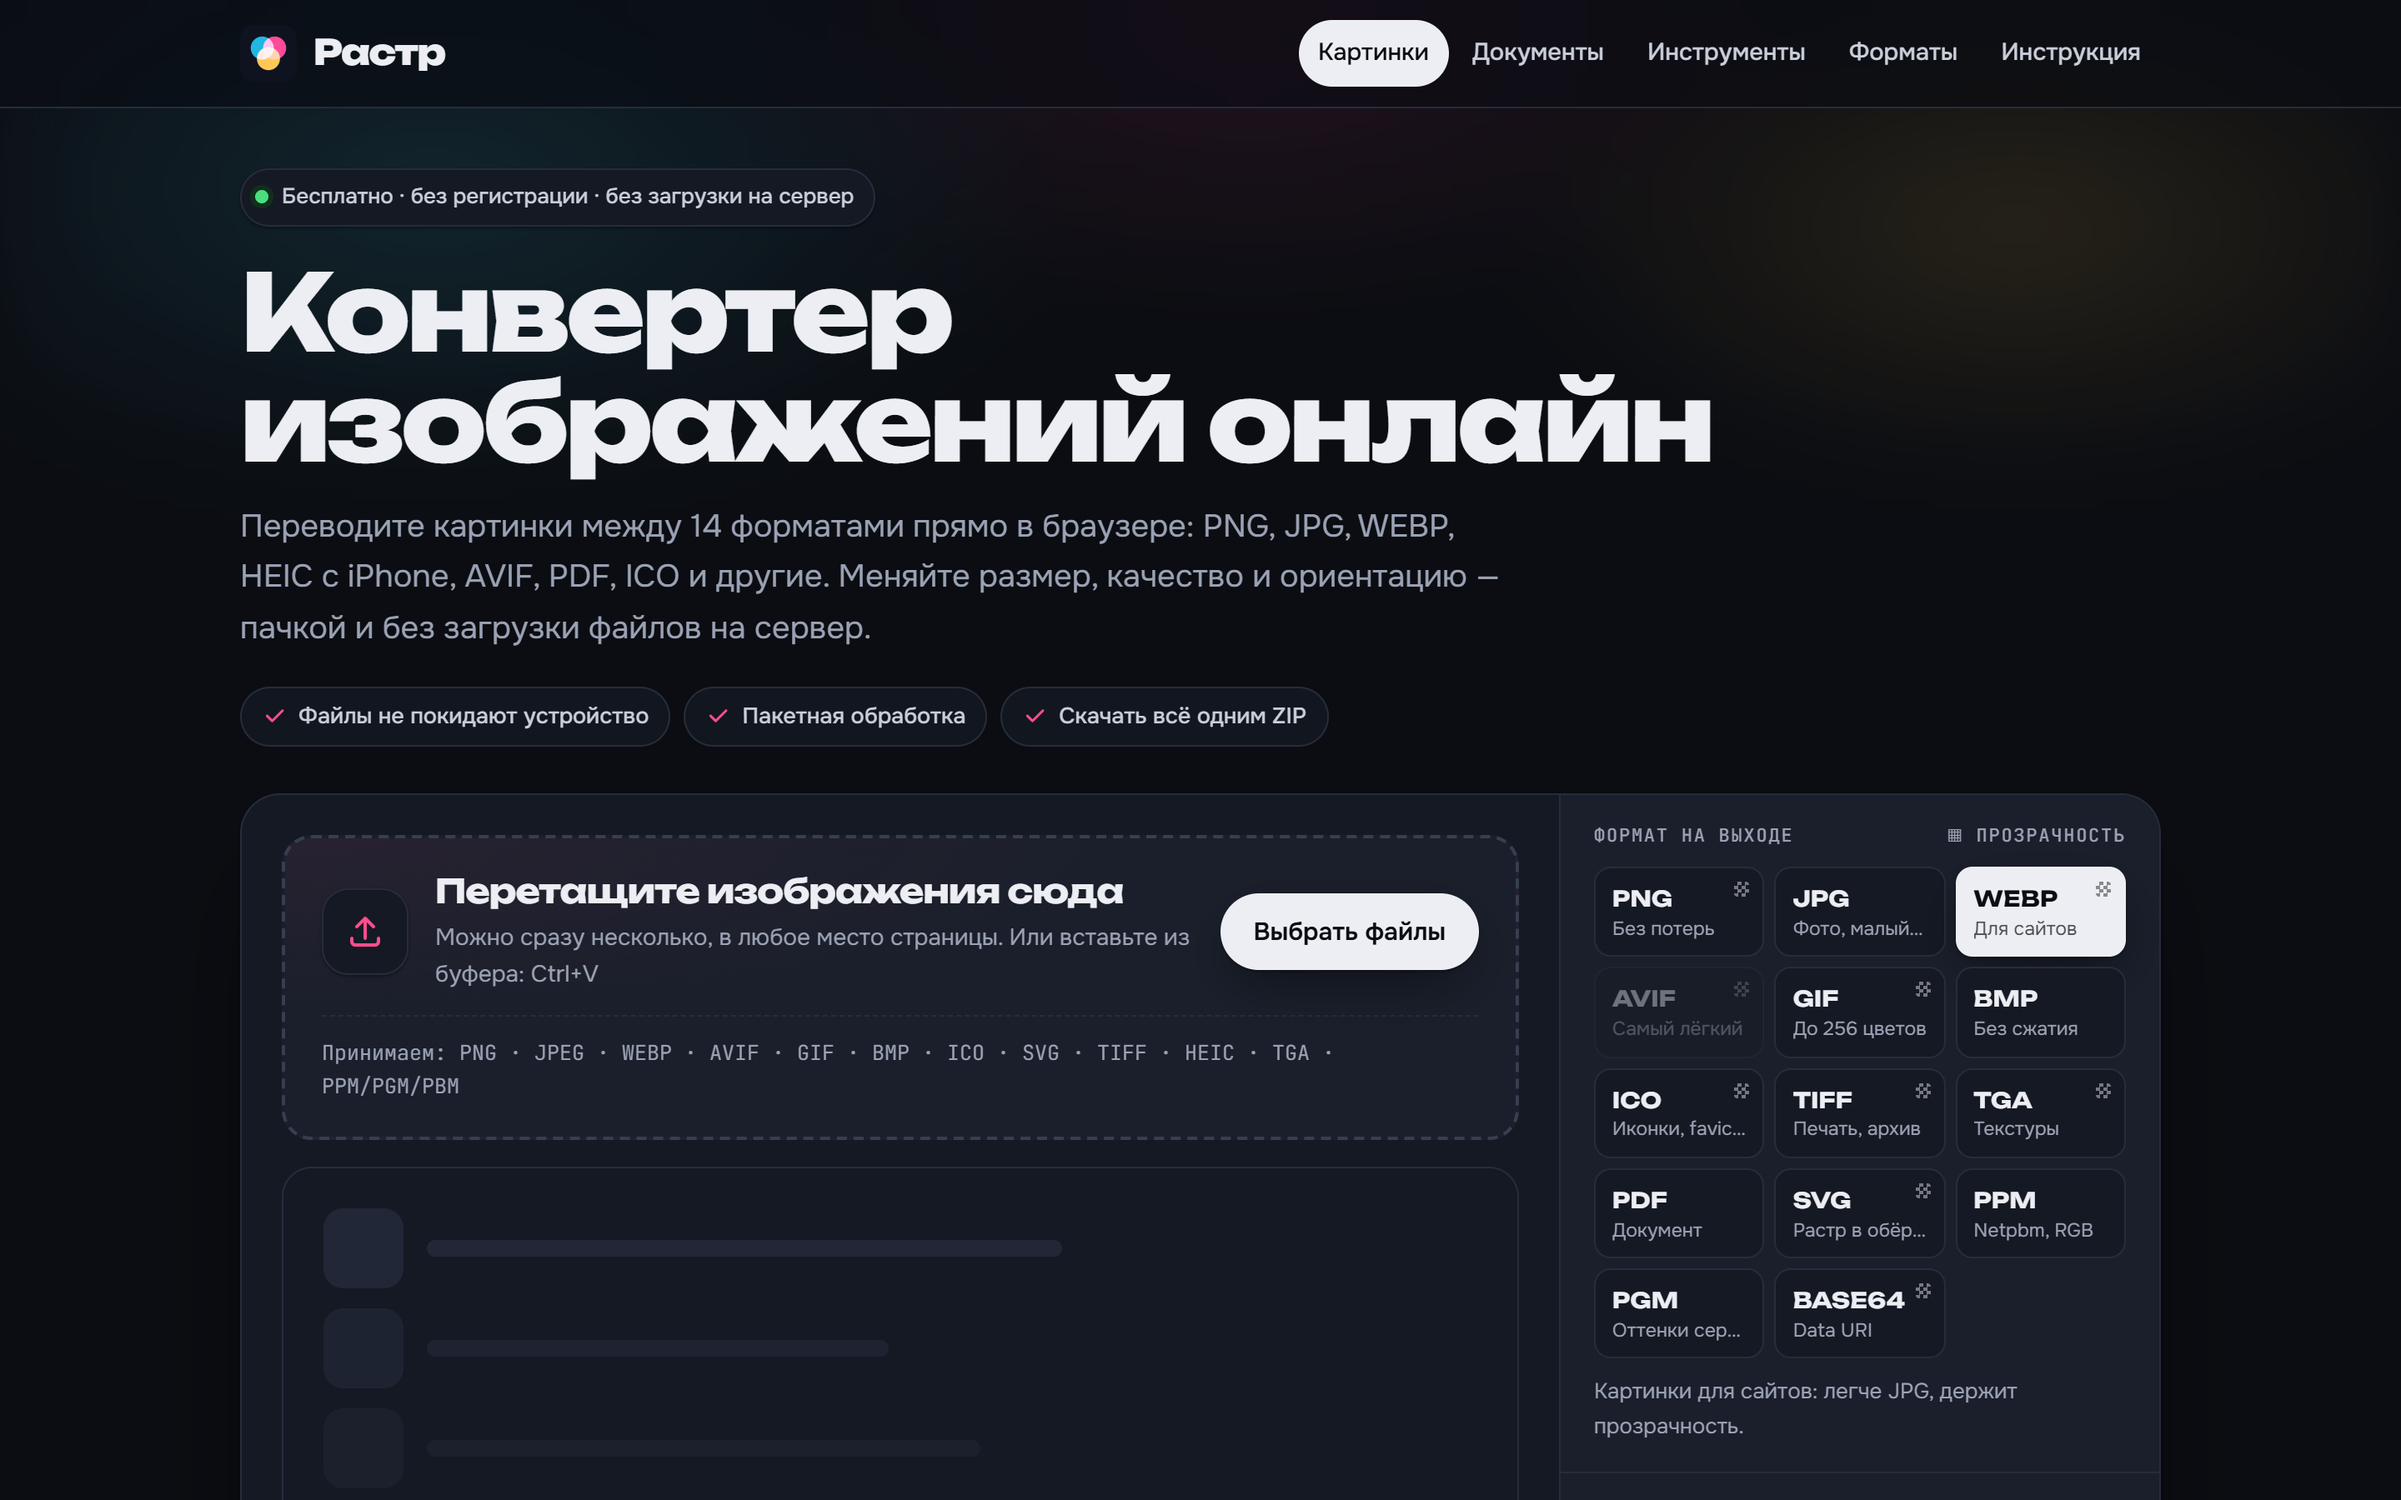
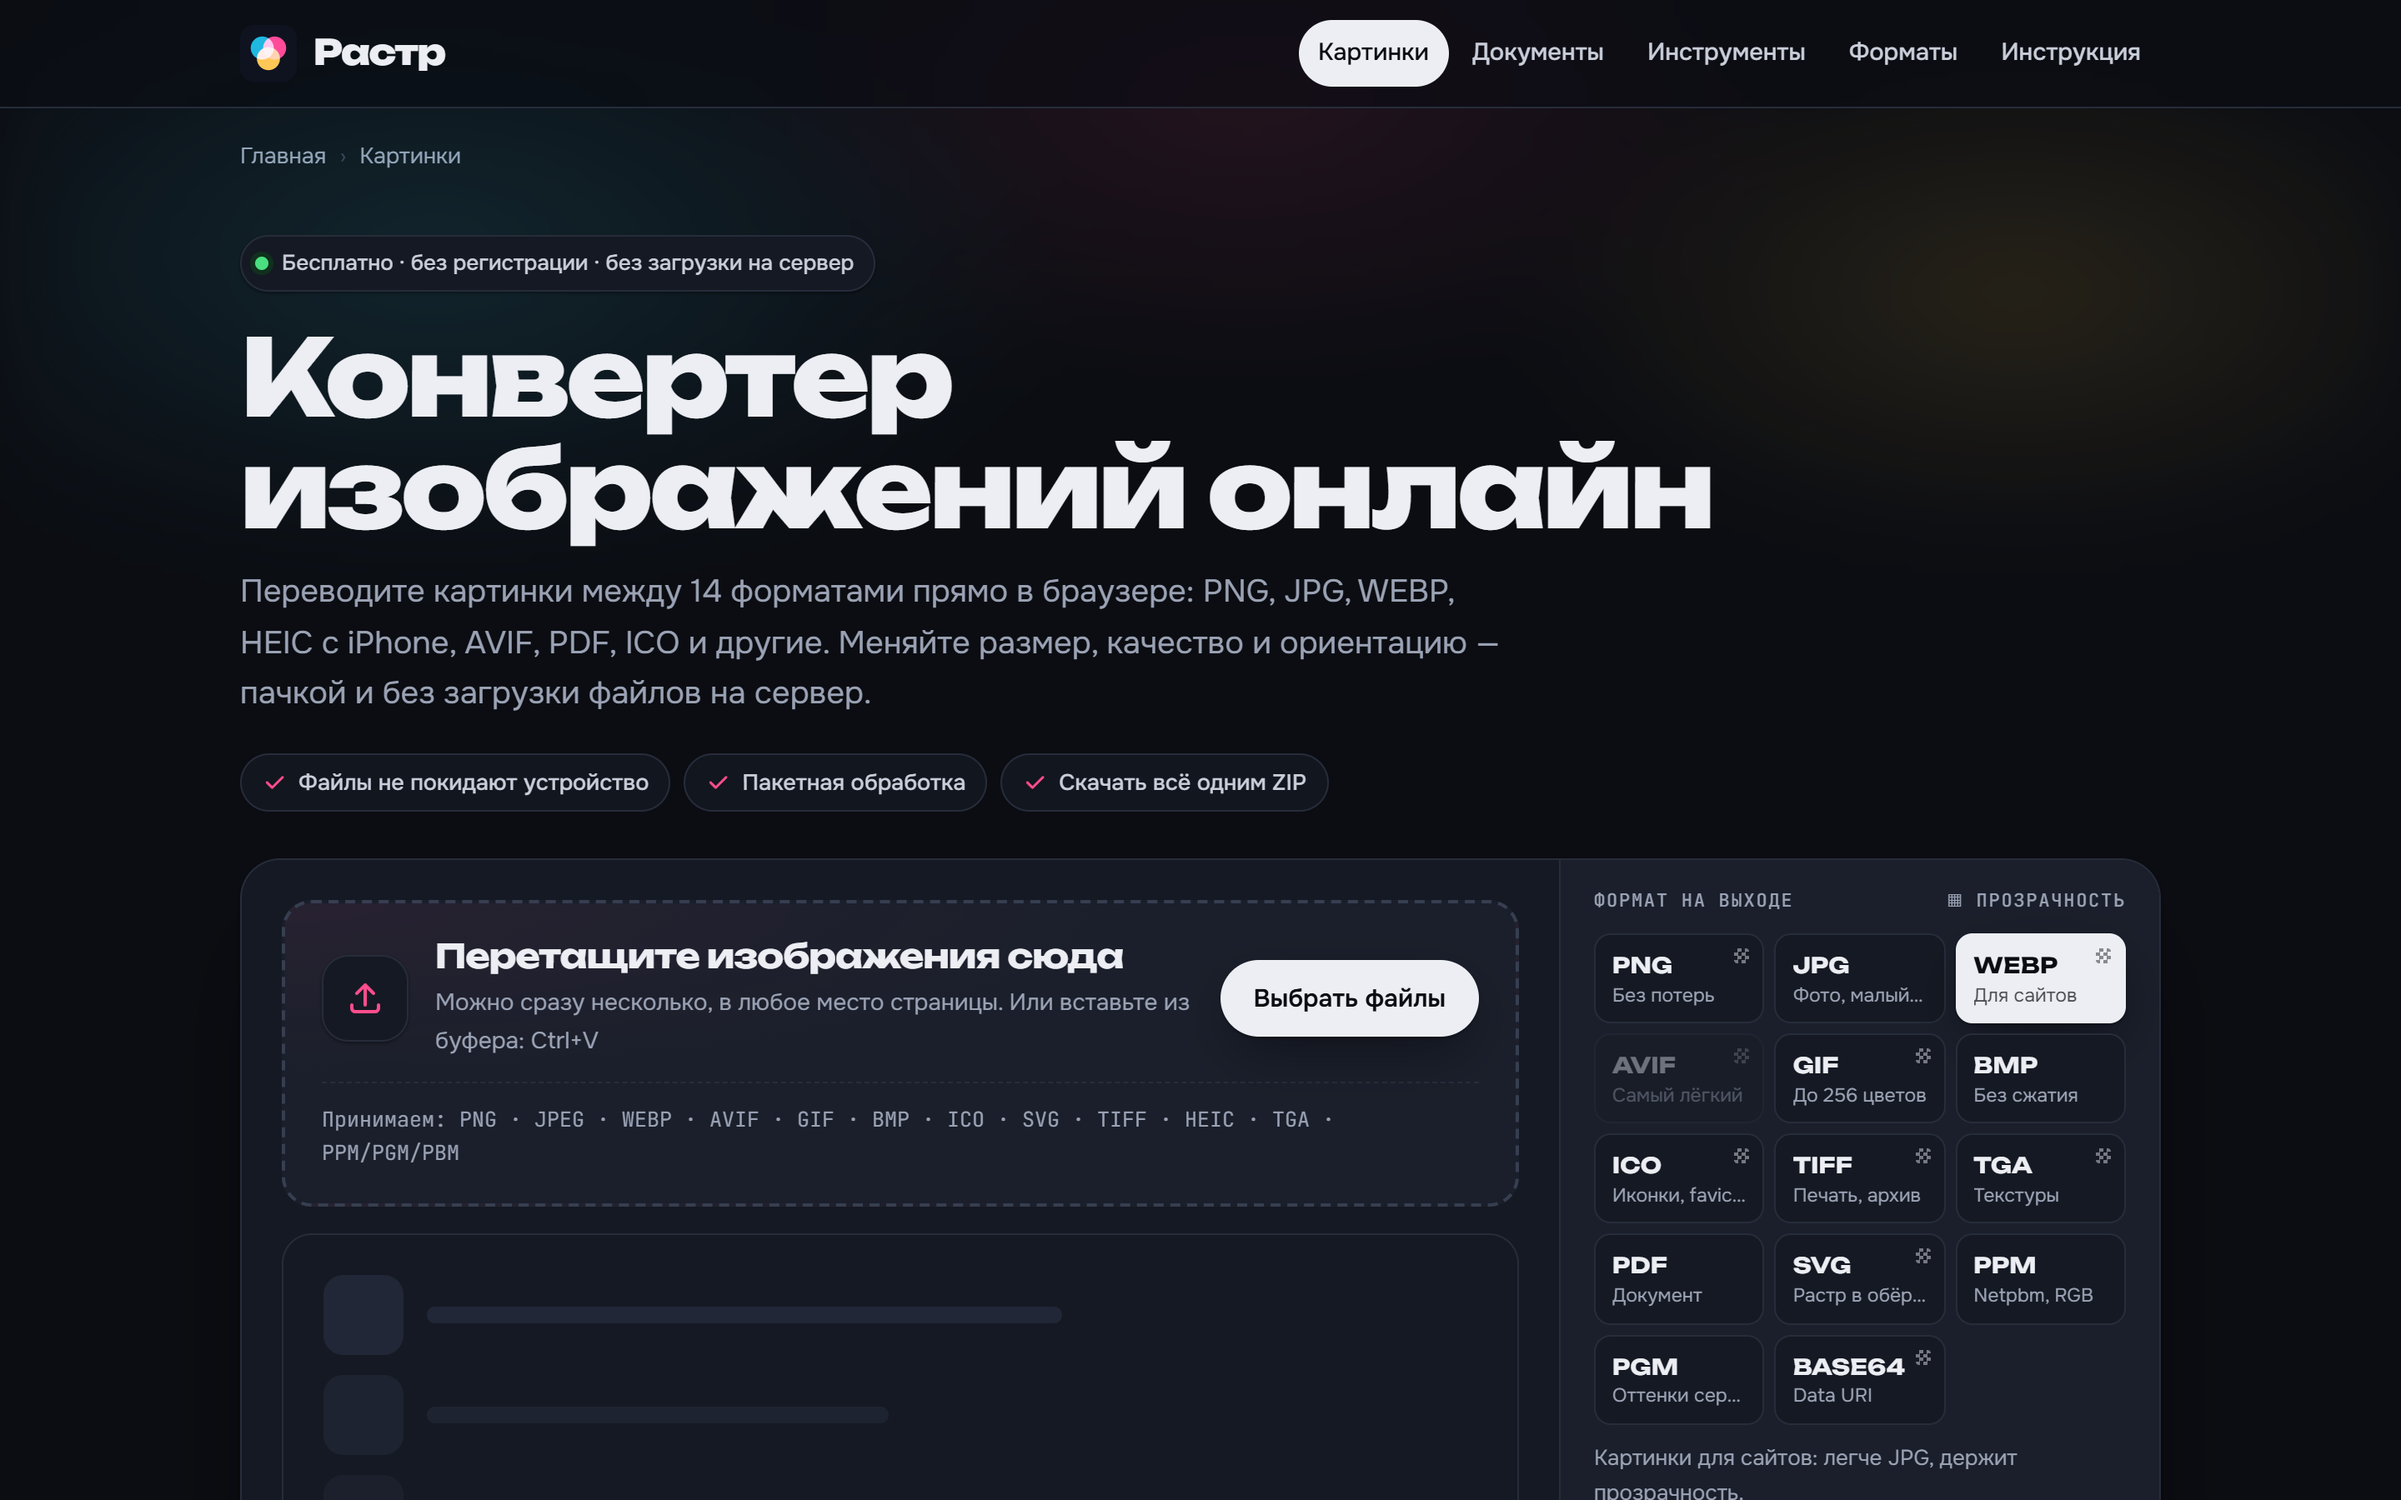
Главная — обзор сервиса, конвертер изображений на отдельной странице
- Главная /: описание сервиса, кнопки «Конвертировать картинки» и
  «Конвертировать документы», карточки трёх разделов, цифры, как это
  работает, все конвертеры, форматы и вопросы; сам конвертер убран
- Новая страница /konverter-izobrazhenij/: конвертер изображений и
  инструкция по работе с ним, свои вопросы и ответы
- SEO: главная под «онлайн-конвертер картинок и документов», страница
  конвертера под «конвертер изображений онлайн»; OG-превью, sitemap,
  редирект без слэша, хлебные крошки
- Меню «Картинки» ведёт на конвертер изображений, 404 со ссылками
- Тесты, README и скриншоты под новую структуру

Changed region(s): [[0.0938, 0.0933, 0.9062, 1.0], [0.0938, 0.0933, 0.125, 0.1244]]

diff --git a/src/assets/site.css b/src/assets/site.css
@@ -531,7 +531,7 @@ pre .s { color: #7FD8F0; }
 /* ---------- инструменты: карточки ---------- */
 .tools { display: grid; grid-template-columns: repeat(auto-fit, minmax(240px, 1fr)); gap: 16px; list-style: none; padding: 0; margin: 0; }
 .tools a {
-  display: grid; gap: 6px; align-content: start; height: 100%; padding: 22px; border-radius: var(--r-lg);
+  display: grid; gap: 6px; grid-template-rows: auto auto 1fr auto; height: 100%; padding: 22px; border-radius: var(--r-lg);
   background: var(--surface); border: 1px solid var(--line); color: var(--ink); text-decoration: none;
   transition: border-color .15s, transform .15s, box-shadow .15s;
 }
@@ -572,3 +572,25 @@ pre .s { color: #7FD8F0; }
 
 /* на узких телефонах в шапке — только значок логотипа, чтобы поместились «Картинки», «Документы» и «Инструменты» */
 @media (max-width: 420px) { .site-head .logo b { display: none; } .menu a { padding: 7px 8px; } }
+
+/* ---------- главная: кнопки в первом экране и цифры ---------- */
+.hero-cta { display: flex; flex-wrap: wrap; gap: 10px; margin: 0 0 20px; }
+.hero-cta .btn { padding: 13px 22px; font-size: 15.5px; }
+.missing .hero-cta { justify-content: center; margin: 4px 0 0; }
+.stats-row {
+  list-style: none; margin: 16px 0 0; padding: 0; display: grid; grid-template-columns: repeat(4, minmax(0, 1fr));
+  background: var(--surface); border: 1px solid var(--line); border-radius: var(--r-lg); overflow: hidden;
+}
+.stats-row li { padding: 20px 22px; border-right: 1px solid var(--line); display: grid; gap: 4px; }
+.stats-row li:last-child { border-right: 0; }
+.stats-row b { font-family: var(--f-display); font-weight: 800; font-size: clamp(24px, 3vw, 32px); letter-spacing: -.03em; line-height: 1.05; }
+.stats-row span { color: var(--muted); font-size: 14px; }
+@media (max-width: 720px) {
+  .stats-row { grid-template-columns: 1fr 1fr; }
+  .stats-row li:nth-child(2) { border-right: 0; }
+  .stats-row li:nth-child(-n+2) { border-bottom: 1px solid var(--line); }
+}
+
+/* кнопки-ссылки: без подчёркивания и цвета ссылок */
+a.btn { text-decoration: none; color: var(--ink); }
+a.btn.primary, a.btn.primary:hover { color: var(--accent-ink); }

diff --git a/src/assets/app.js b/src/assets/app.js
@@ -76,7 +76,7 @@
     (f.alpha ? '<span class="alpha" aria-label="прозрачность"></span>' : '') + '</button>'
   ).join('');
 
-  // Таблица форматов есть только на главной; её строки уже в HTML, здесь только отмечаем недоступные
+  // Таблица форматов есть только на странице конвертера изображений; её строки уже в HTML, здесь только отмечаем недоступные
   const refBody = $('ref-body');
   if (refBody) {
     refBody.querySelectorAll('tr').forEach(tr => {
@@ -98,7 +98,7 @@
     updateSummary();
     return true;
   }
-  // На тематических страницах выбор не запоминаем, чтобы не сбивать главную
+  // На тематических страницах выбор не запоминаем, чтобы не сбивать основной конвертер
   const remember = !preset.format;
   $('fmts').addEventListener('click', e => { const b = e.target.closest('.fmt'); if (b && !b.disabled) setFormat(b.dataset.id, remember); });
   if (refBody) {

diff --git a/README.md b/README.md
@@ -13,7 +13,19 @@
   <img src="docs/screenshots/home.png" alt="Главная страница Растра" width="900">
 </p>
 
-## Возможности
+## Структура сайта
+
+- **Главная** `/` рассказывает о сервисе: три раздела, как это работает, почему без сервера, все конвертеры, форматы и вопросы. Самого конвертера на главной нет — кнопки ведут в нужный раздел.
+- **Картинки** `/konverter-izobrazhenij/` — конвертер изображений и инструкция, как с ним работать.
+- **Документы** `/dokumenty/` — конвертер PDF, Word, Excel, CSV, TXT и Markdown.
+- **Инструменты** `/instrumenty/` — сжать фото, сжать до N КБ, изменить размер.
+- Плюс посадочные страницы под частые запросы («HEIC в JPG», «Объединить PDF» и т. д.), справочник форматов, инструкция и правовые страницы.
+
+<p align="center">
+  <img src="docs/screenshots/home-sections.png" alt="Главная: три раздела — картинки, документы, инструменты" width="900">
+</p>
+
+## Конвертер изображений
 
 - **14 форматов на выход:** PNG, JPG, WEBP, AVIF, GIF, BMP, ICO, TIFF, TGA, PDF, SVG, PPM, PGM, Base64.
 - **12 форматов на вход:** PNG, JPEG, WEBP, AVIF, GIF, BMP, ICO, SVG, TIFF, HEIC (фото с iPhone), TGA, PPM/PGM/PBM.
@@ -66,7 +78,7 @@
 
 ## Страницы под поиск
 
-Кроме главной, у сайта 14 посадочных страниц под частые запросы. На каждой свой текст, вопросы и ответы, а конвертер открывается уже настроенным под задачу.
+Кроме главной и разделов, у сайта десятки посадочных страниц под частые запросы. На каждой свой текст, вопросы и ответы, а конвертер открывается уже настроенным под задачу.
 
 <p align="center">
   <img src="docs/screenshots/popular.png" alt="Блок популярных конвертеров" width="900">
@@ -74,7 +86,9 @@
 
 | Страница | Главный запрос |
 |---|---|
-| `/` | конвертер изображений |
+| `/` | онлайн-конвертер картинок и документов (обзор сервиса) |
+| `/konverter-izobrazhenij/` | конвертер изображений онлайн |
+| `/dokumenty/` | конвертер документов онлайн |
 | `/png-v-jpg/` | png в jpg |
 | `/jpg-v-png/` | jpg в png |
 | `/heic-v-jpg/` | heic в jpg |
